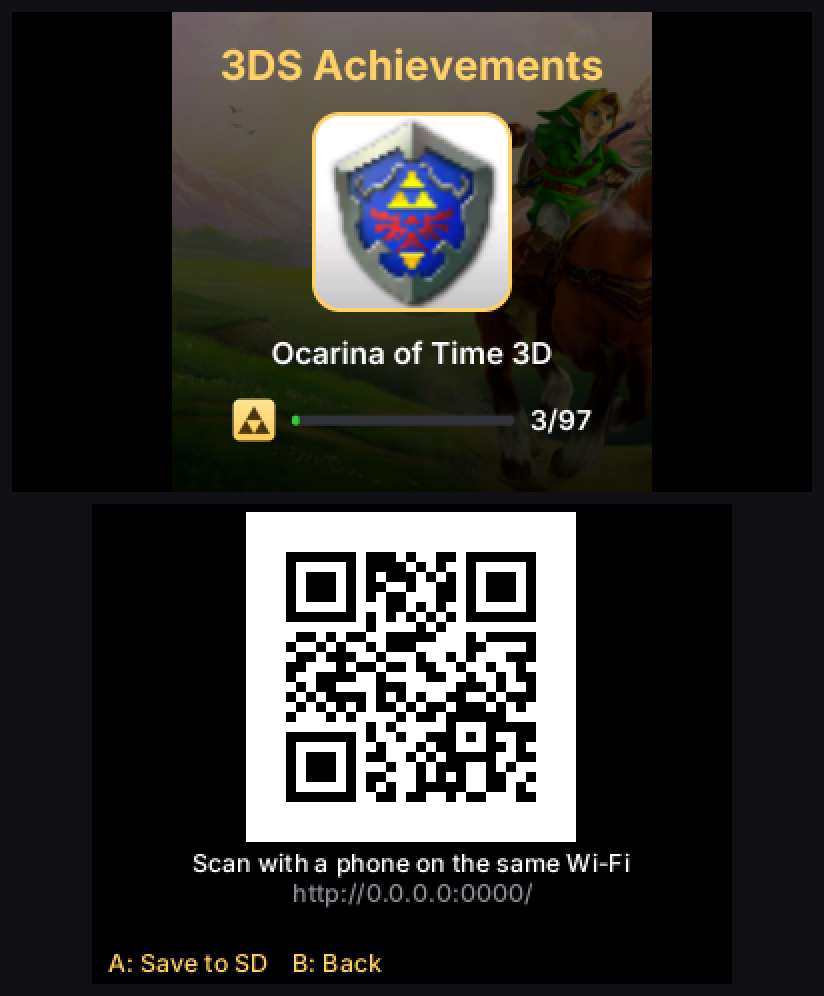
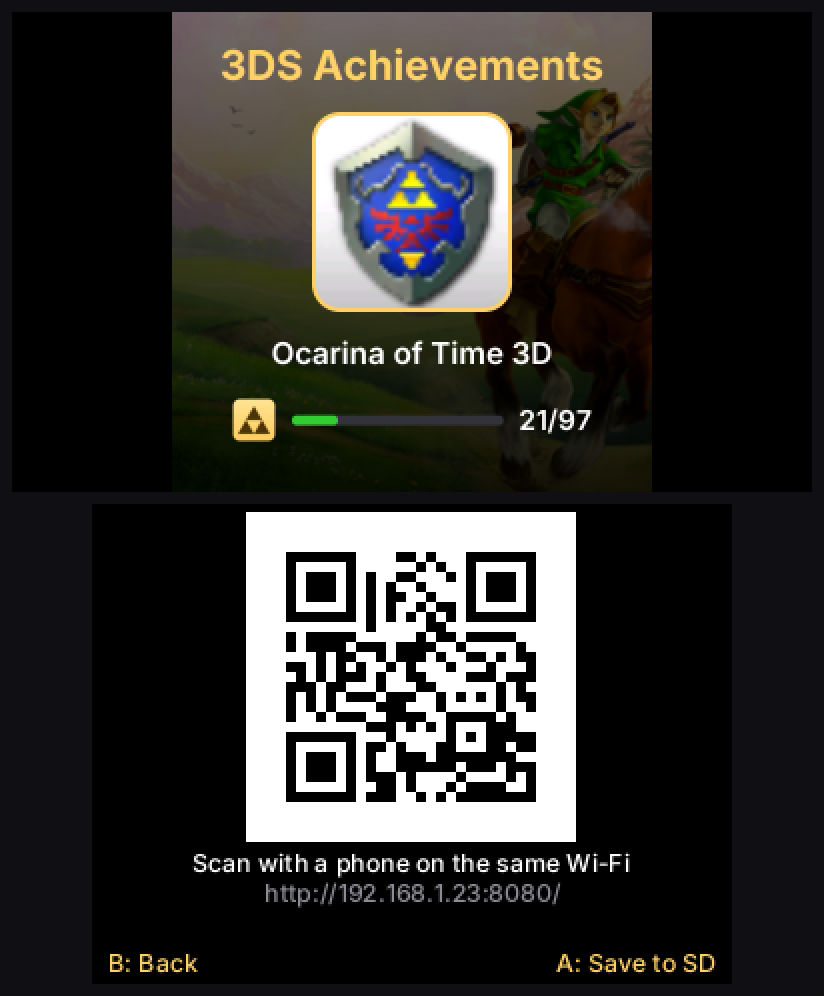
updated readme

diff --git a/README.md b/README.md
@@ -2,13 +2,13 @@
 
 Achievements for Nintendo 3DS games, on real hardware with [Luma3DS](https://github.com/LumaTeam/Luma3DS).
 
-A background module watches the running game's memory. When you earn an achievement, it saves the unlock, shows a banner on the bottom screen and turns the notification light gold. A companion app lists every game and achievement, in 3D on the top screen, downloads new ones from this repository, and makes an image of your progress to share. Your games aren't modified.
+A background module watches the running game's memory. When you earn an achievement, it saves the unlock, shows a banner on the bottom screen and turns the notification light gold. A companion app lists every game and achievement, in 3D on the top screen, downloads new ones from this repository, makes an image of your progress to share, and turns your achievement points into Play Coins to spend on new themes. Your games aren't modified.
 
 Questions, bug reports and news: join the [Discord server](https://discord.gg/MWZKkPytYc).
 
-| The app | One achievement in full (A) |
+| Choosing a game | Its achievements (A) |
 |---|---|
-| <img src="assets/screenshots/app.png" alt="The app, with Ocarina of Time 3D selected, the button hints along the bottom of the top screen and its achievements listed on the bottom screen" width="400"> | <img src="assets/screenshots/details-app.png" alt="One achievement in full: Twins of Evil, locked, 10 points, 85 of 97, with its whole name and its long description" width="400"> |
+| <img src="assets/screenshots/app.png" alt="The app with Ocarina of Time 3D chosen in the row of games, the store's tile at the end of the row, and on the bottom screen its progress: 21 of 97 achievements, 105 of 690 points, the three latest unlocks and totals for all games" width="400"> | <img src="assets/screenshots/achievements.png" alt="Ocarina of Time 3D opened: 21 of 97 unlocked and 105 of 690 points along the top of the bottom screen, then its achievements, unlocked ones in green with a gold Triforce, the first one selected" width="400"> |
 
 ## Supported games
 
@@ -31,32 +31,55 @@ Since version 1.4.0, the app updates itself. When a new release is out, it offer
 
 | In the app | |
 |---|---|
-| Left / Right | Change game |
+| Left / Right | Choose a game; the store is the last tile in the row |
+| A | Open the game's achievements, or the store |
+| B | Go back |
 | Up / Down | Select an achievement (the list scrolls to keep it on screen) |
 | Drag the touch screen | Scroll achievements |
 | A, or tap an achievement | Show it in full: the whole name and description (B or a tap goes back, Up/Down show the next ones) |
 | L / R | Jump a page |
-| SELECT | Turn the tracker on or off |
-| X | Allow or block achievements in patched games |
-| Y | Share the selected game's progress (A saves the image to the SD card, B goes back) |
+| X | Settings: the tracker, patched games and the theme |
+| Y | Share the open game's progress (A saves the image to the SD card, B goes back) |
 | 3D slider | Depth on the top screen: the game's art sits behind the screen and the selected game comes forward |
 | START | Exit |
 
+The prompts in the bottom corners of the touch screen, like **B: Back** and **A: Open**, can be tapped too. While you choose a game, the bottom screen shows how far you are in it: achievements, points, your three latest unlocks, and totals for all your games.
+
+<img src="assets/screenshots/details-app.png" alt="One achievement in full: Twins of Evil, locked, 10 points, 85 of 97, with its whole name and its long description, and B: Back in the corner" width="400">
+
 In a game, press **R + A + Left** to pause and see your achievements. It works like the app's list: Up/Down select an achievement, L/R (or Left/Right) jump a page, and A or a tap shows the selected one in full (B or a tap goes back). B or SELECT closes the list.
 
-**Sharing:** press Y to make an image of the selected game's progress. With the 3DS on Wi-Fi, scan the QR code on the bottom screen with a phone on the same network. A page opens with the image and a **Save image** button; on an iPhone, touch and hold the image to save it to Photos. The 3DS sends it itself, so nothing is uploaded anywhere. Press A to save the image on the SD card instead, in `/achievements/share/`.
+**Sharing:** with a game open, press Y to make an image of your progress in it. With the 3DS on Wi-Fi, scan the QR code on the bottom screen with a phone on the same network. A page opens with the image and a **Save image** button; on an iPhone, touch and hold the image to save it to Photos. The 3DS sends it itself, so nothing is uploaded anywhere. Press A to save the image on the SD card instead, in `/achievements/share/`.
 
 | The share screen (Y) | The image you get |
 |---|---|
-| <img src="assets/screenshots/share.png" alt="The share screen: the image on the top screen, and on the bottom a QR code to scan with a phone, the link it opens, and A: Save to SD, B: Back" width="400"> | <img src="assets/screenshots/share-image.png" alt="The shared image: 3DS Achievements, the Ocarina of Time 3D icon in a gold frame over the game's art, its name, and a progress bar with 3/97" width="400"> |
+| <img src="assets/screenshots/share.png" alt="The share screen: the image on the top screen, and on the bottom a QR code to scan with a phone, the link it opens, and A: Save to SD, B: Back" width="400"> | <img src="assets/screenshots/share-image.png" alt="The shared image: 3DS Achievements, the Ocarina of Time 3D icon in a gold frame over the game's art, its name, and a progress bar with 21/97" width="400"> |
 
-When you open the app on Wi-Fi, it checks this repository's `main` branch and asks before downloading new games or achievements.
+When you open the app on Wi-Fi, it checks this repository's `main` branch and asks before downloading new games, achievements or things for the store.
 
-Patches and mods can change how a game behaves, so while Luma's game patching is on, achievements are turned off for a game with a `code.bin`, `code.bps`, `code.ips`, `code.ups` or `romfs` folder in `/luma/titles/<TitleID>/`. The start banner tells you when this happens. To earn achievements anyway, for example with a mod you trust not to affect them, press X in the app to turn on **Patched games**. Your choice is saved, and it applies the next time you start a game.
+Patches and mods can change how a game behaves, so while Luma's game patching is on, achievements are turned off for a game with a `code.bin`, `code.bps`, `code.ips`, `code.ups` or `romfs` folder in `/luma/titles/<TitleID>/`. The start banner tells you when this happens. To earn achievements anyway, for example with a mod you trust not to affect them, turn on **Patched games** in the settings (X). Your choice is saved, and it applies the next time you start a game.
+
+## Settings and themes
+
+Press X for the settings. **Tracker** turns the tracker on or off, **Patched games** is explained above, and **Theme** opens the list of themes: pick one with A and the app changes at once. Two come with the app: **Modern**, shown on this page, and **3DS**, which looks like the console's own System Settings and uses its system font. More are in the store.
+
+| Settings (X) | Choosing a theme |
+|---|---|
+| <img src="assets/screenshots/settings.png" alt="The settings: Tracker on, Patched games off and Theme set to Modern, each with a line about what it does" width="400"> | <img src="assets/screenshots/themes.png" alt="The theme list: Modern, in use, and 3DS, each with a line about how it looks" width="400"> |
+
+## Play Coins and the store
+
+Achievements earn Play Coins: 5 for every 25 points. When you open the app, it adds the coins you've earned to your 3DS's own Play Coins, the ones StreetPass Mii Plaza and other games spend. Points you earned before Play Coins were added count too. The system holds at most 300; coins past that are kept and added once you've spent some.
+
+Spend them in the store, the last tile in the row of games. Highlight it to see your Play Coins, press A to see what's for sale, then A again to buy the selected item. A theme you buy appears in the settings' theme list. New things for the store arrive with achievement downloads, without an app update, and what you've bought is kept in `/achievements/purchases.txt` on your SD card.
+
+| The store | Buying (A) |
+|---|---|
+| <img src="assets/screenshots/store.png" alt="The store selected at the end of the row, with 135 Play Coins, and on the bottom screen its items: the DS theme for 100 Play Coins" width="400"> | <img src="assets/screenshots/store-buy.png" alt="Asked to buy the DS theme for 100 Play Coins: you have 135 and will have 35 left, with A: Buy and B: Cancel" width="400"> |
 
 ## Reporting a bug
 
-Open an [issue](https://github.com/LiamTrader43/3ds-Achievements/issues) or post in the bug report forum on [Discord](https://discord.gg/MWZKkPytYc), and **attach `/achievements/tracker.log` from your SD card**. The tracker writes it as you play: which games started, every unlock, and whether it could read the game's memory. It's usually the only way to tell what went wrong. For download problems, attach `/achievements/update.log` too. Neither contains personal information, only game titles, unlocks and technical details. For sharing problems, attach `/achievements/share.log`; besides technical details, it lists your 3DS's and phone's addresses on your home network.
+Open an [issue](https://github.com/LiamTrader43/3ds-Achievements/issues) or post in the bug report forum on [Discord](https://discord.gg/MWZKkPytYc), and **attach `/achievements/tracker.log` from your SD card**. The tracker writes it as you play: which games started, every unlock, and whether it could read the game's memory. It's usually the only way to tell what went wrong. For download problems, attach `/achievements/update.log` too, and `/achievements/theme.log` if a theme won't load. None of these contain personal information, only game titles, unlocks and technical details. For sharing problems, attach `/achievements/share.log`; besides technical details, it lists your 3DS's and phone's addresses on your home network.
 
 In the issue, include:
 
@@ -130,6 +153,8 @@ cp app/achievements-viewer.3dsx sysmodule/dist/3ds/achievements-viewer.3dsx
 python tools/make_versions.py
 ```
 
+The store's files in `achievements/store/` are encrypted, and only builds made with the project's private key can open them, so the store is empty in your own builds.
+
 ## Credits
 
 **Collaborators:** Swamp Puppy (UI design)
@@ -143,7 +168,7 @@ python tools/make_versions.py
 - [zlib](https://zlib.net/) (zlib): compression for curl and the share image
 - [QR Code generator library](https://www.nayuki.io/page/qr-code-generator-library) v1.8.0, Copyright (c) Project Nayuki (MIT): the share screen's QR code
 
-**Font:** [Inter](https://rsms.me/inter/), Copyright 2016 The Inter Project Authors (SIL Open Font License 1.1, see [assets/fonts/OFL.txt](assets/fonts/OFL.txt)): all text in the app, the banner, the in-game list and the share image.
+**Fonts:** [Inter](https://rsms.me/inter/), Copyright 2016 The Inter Project Authors (SIL Open Font License 1.1, see [assets/fonts/OFL.txt](assets/fonts/OFL.txt)): the Modern theme, the banner, the in-game list and the share image. The 3DS theme uses the console's own system font, read from the 3DS; none of it comes with the app.
 
 **Achievements:** the Ocarina of Time 3D names, descriptions and points come from the community's [RetroAchievements set](https://retroachievements.org/game/10113). The conditions were rewritten for the 3DS version.
 
